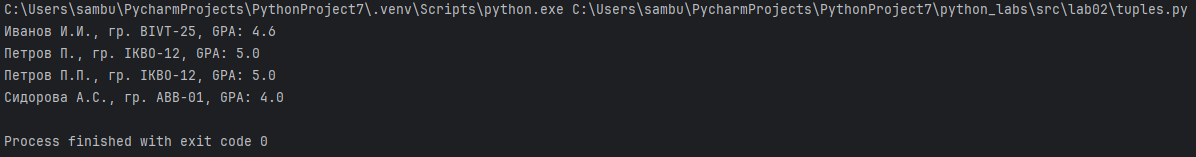
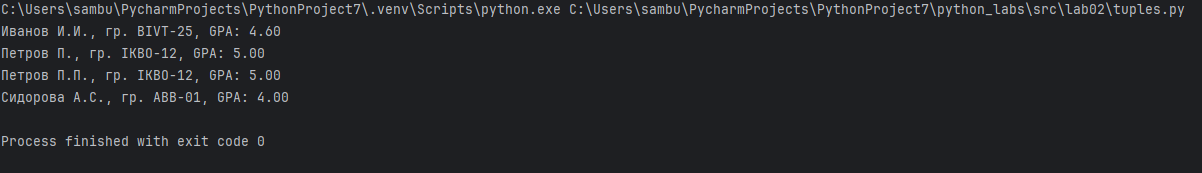
commit message

diff --git a/src/lab02/tuples.py b/src/lab02/tuples.py
@@ -7,6 +7,8 @@ def check_validity(rec):
         raise TypeError('Not a float')
     if len(rec[0]) == 0 or len(rec[1]) == 0:
         raise ValueError('Empty name/group')
+    if rec[2] < 0:
+        raise ValueError('Negative GPA value')
 
 def initials(name):
     name = name.strip().split()
@@ -19,7 +21,7 @@ def initials(name):
 
 def format_record(rec):
     check_validity(rec)
-    return f'{initials(rec[0])}, гр. {rec[1]}, GPA: {round(rec[2], 2)}'
+    return f'{initials(rec[0])}, гр. {rec[1]}, GPA: {round(rec[2], 2):.2f}'
 
 print(format_record(("Иванов Иван Иванович", "BIVT-25", 4.6)))
 print(format_record(("Петров Пётр", "IKBO-12", 5.0)))

diff --git a/README.md b/README.md
@@ -139,6 +139,8 @@ def check_validity(rec):
         raise TypeError('Not a float')
     if len(rec[0]) == 0 or len(rec[1]) == 0:
         raise ValueError('Empty name/group')
+    if rec[2] < 0:
+        raise ValueError('Negative GPA value')
 
 def initials(name):
     name = name.strip().split()
@@ -151,7 +153,7 @@ def initials(name):
 
 def format_record(rec):
     check_validity(rec)
-    return f'{initials(rec[0])}, гр. {rec[1]}, GPA: {round(rec[2], 2)}'
+    return f'{initials(rec[0])}, гр. {rec[1]}, GPA: {round(rec[2], 2):.2f}'
 
 print(format_record(("Иванов Иван Иванович", "BIVT-25", 4.6)))
 print(format_record(("Петров Пётр", "IKBO-12", 5.0)))
